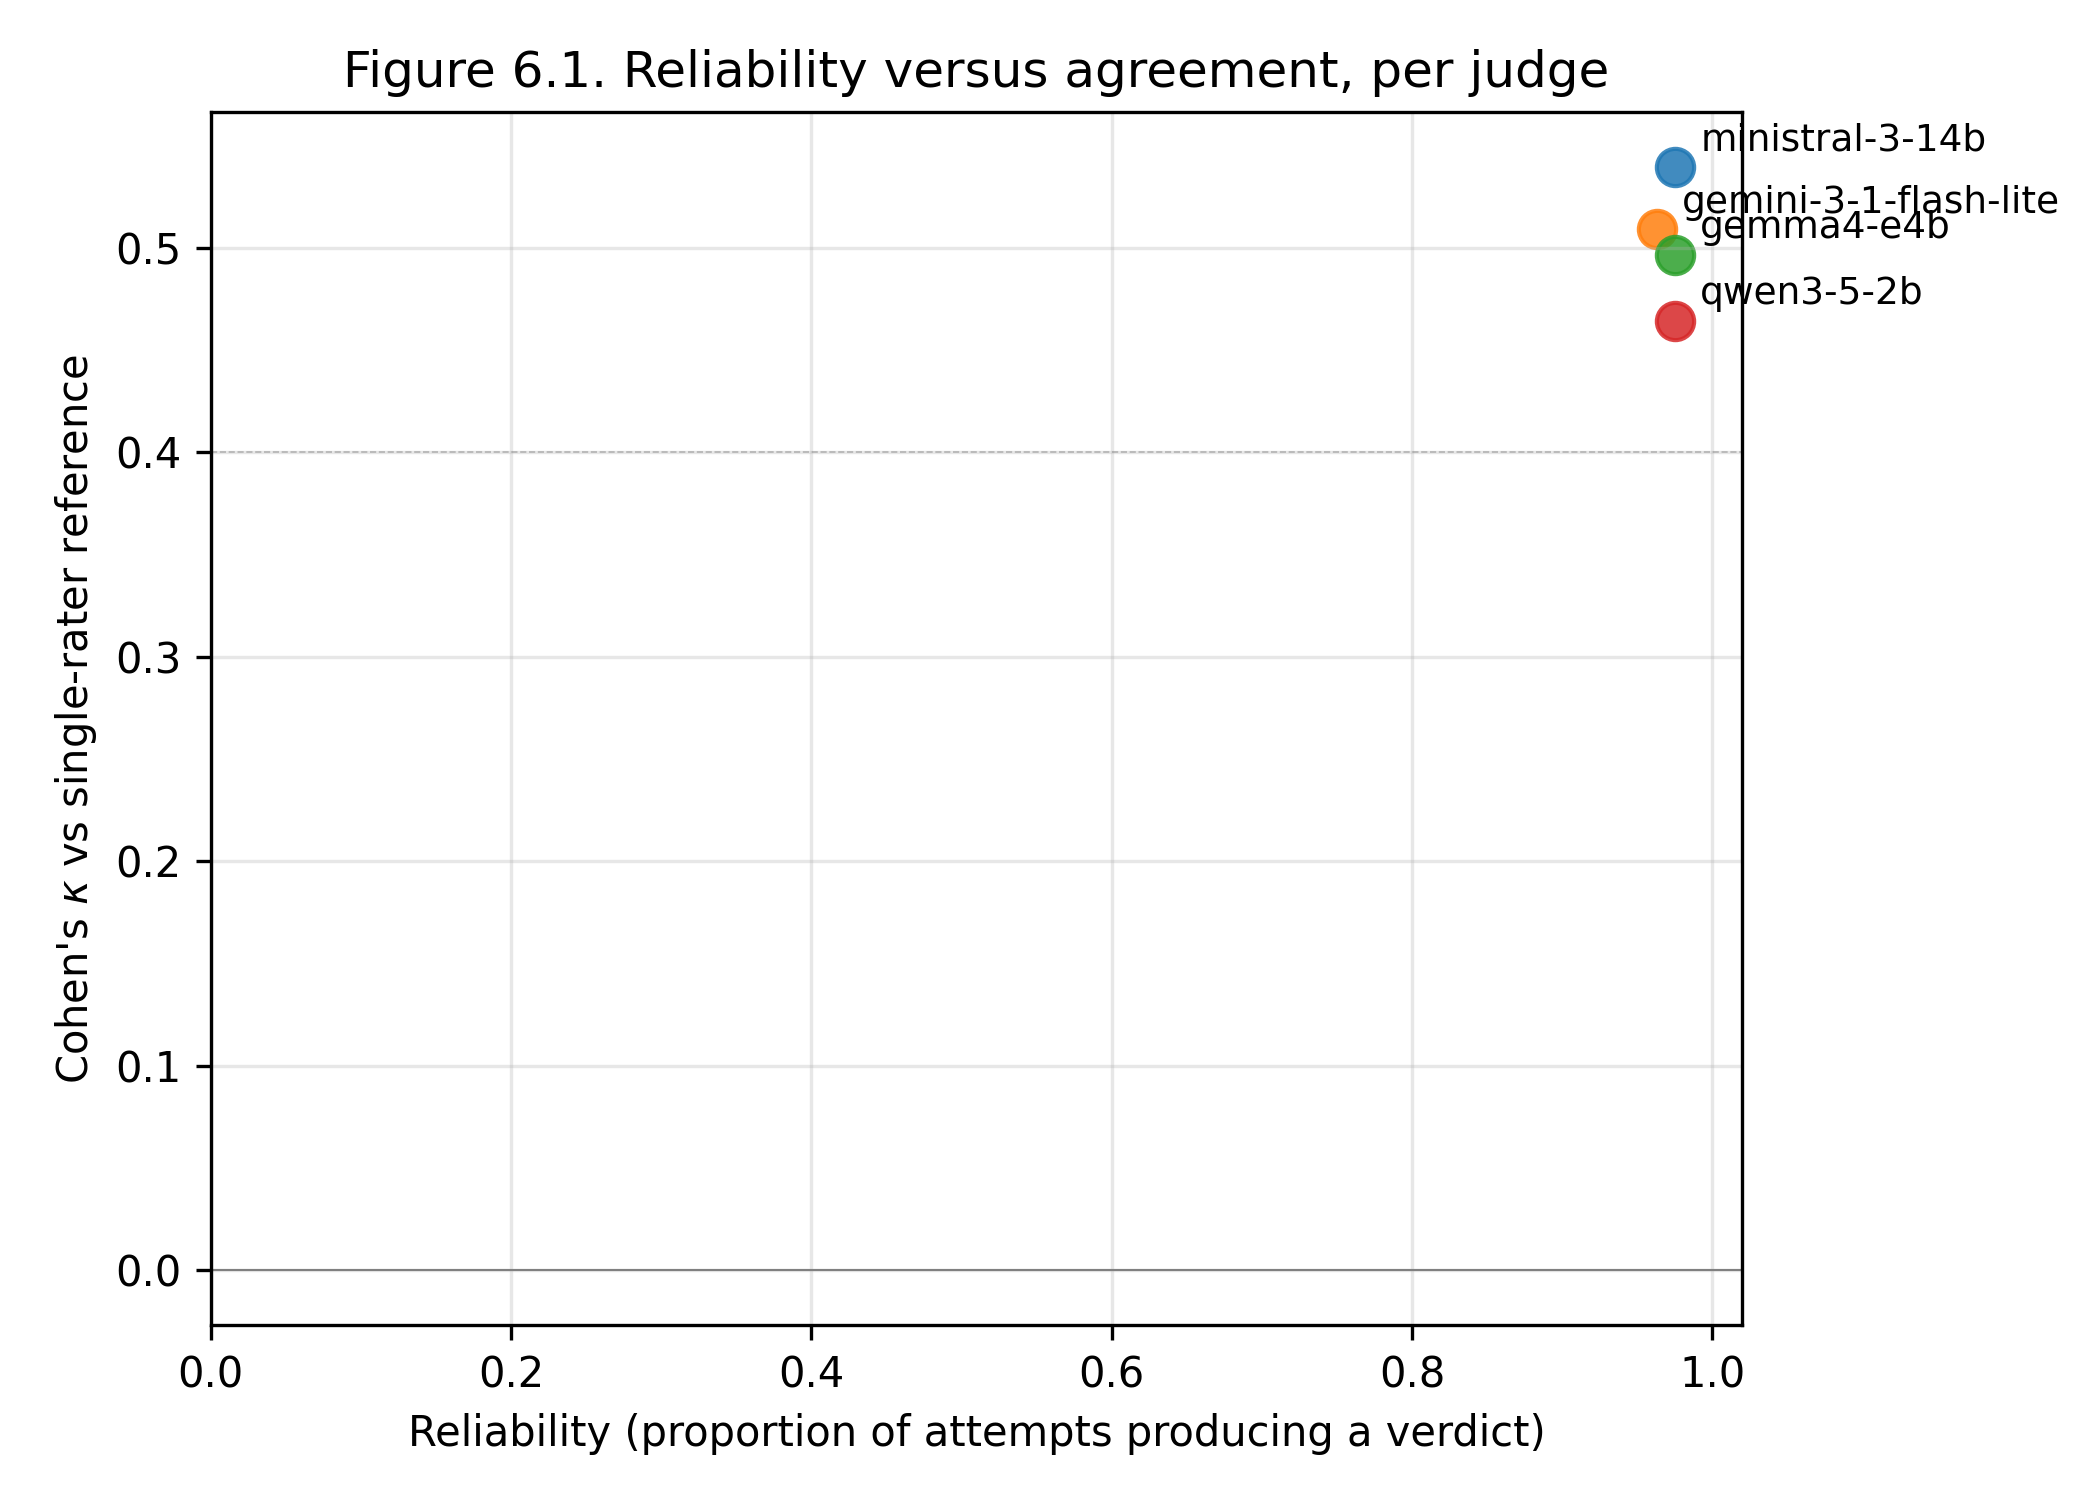
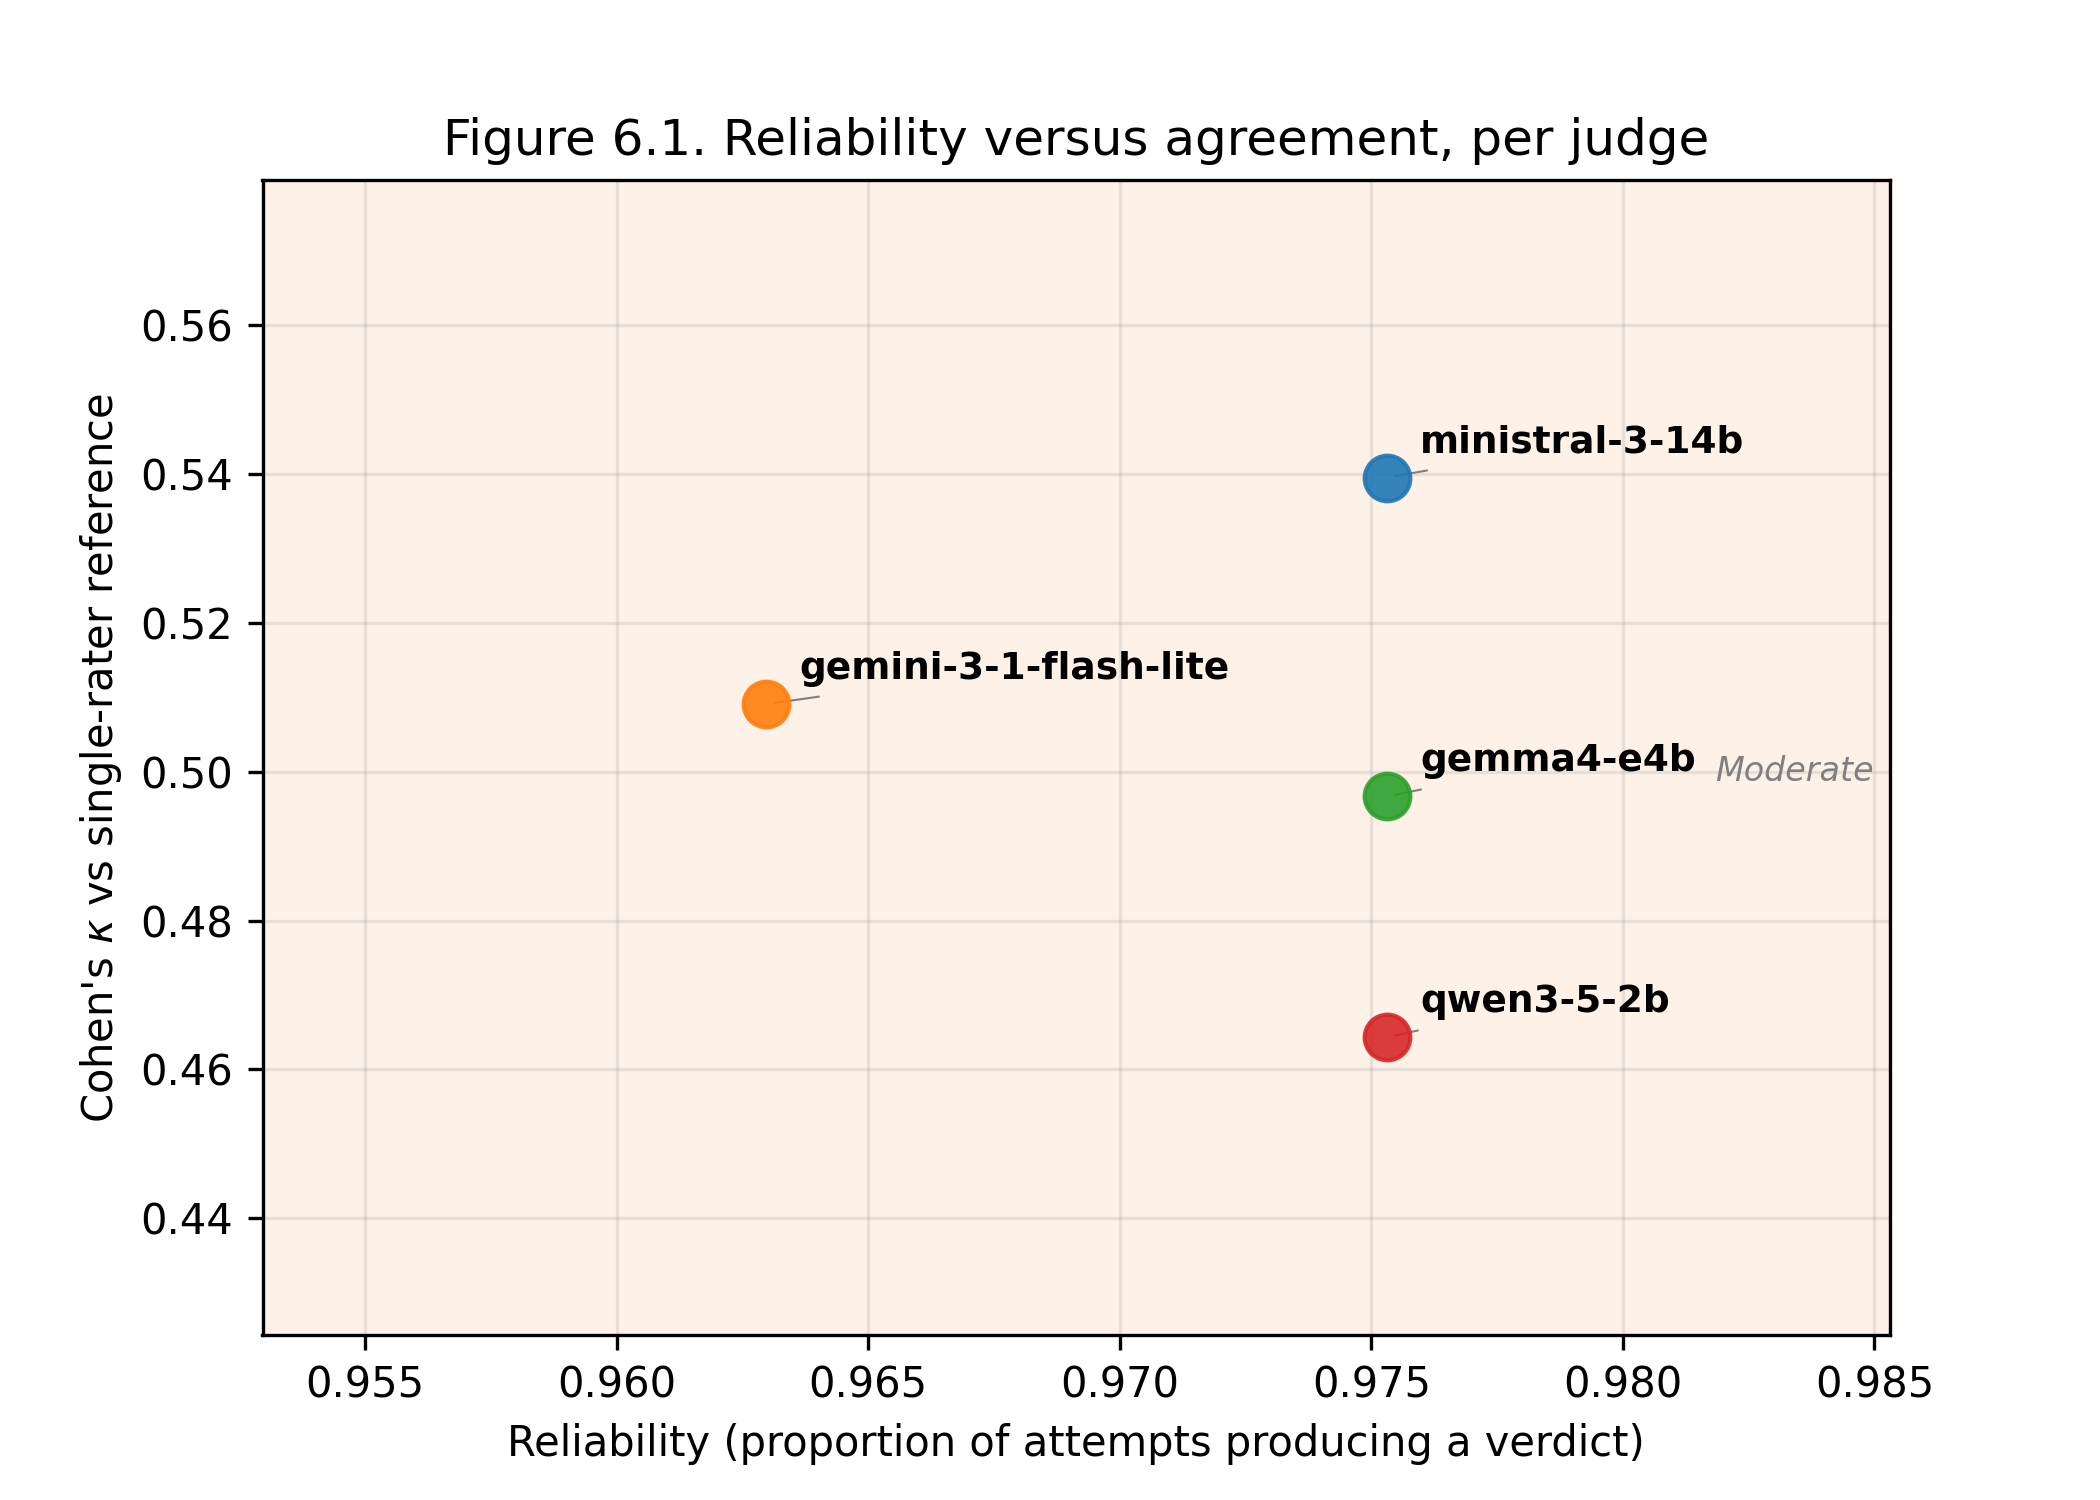
Enhance figure generation in judge matrix analysis: add band shading for reliability levels and improve annotation visibility

diff --git a/scripts/analyse_judge_matrix.py b/scripts/analyse_judge_matrix.py
@@ -347,15 +347,39 @@ def emit_figures(summary: pd.DataFrame, per_tier: dict[str, pd.DataFrame],
         return
 
     fig, ax = plt.subplots(figsize=(7, 5))
-    for _, r in summary.iterrows():
-        ax.scatter(r["reliability"], r["pooled_kappa"], s=80, alpha=0.85)
+
+    # Landis & Koch band shading (only the visible range)
+    bands = [
+        (0.20, 0.40, "#fee8c8", "Fair"),
+        (0.40, 0.60, "#fdbb84", "Moderate"),
+        (0.60, 0.80, "#e34a33", "Substantial"),
+    ]
+    for lo, hi, colour, label in bands:
+        ax.axhspan(lo, hi, color=colour, alpha=0.18)
+        # Place band label at the right edge, vertically centred in band
+        ax.text(0.99, (lo + hi) / 2, label, fontsize=8, color="grey",
+                ha="right", va="center", style="italic",
+                transform=ax.get_yaxis_transform())
+
+    colours = ["#1f77b4", "#ff7f0e", "#2ca02c", "#d62728"]
+    for idx, (_, r) in enumerate(summary.iterrows()):
+        ax.scatter(r["reliability"], r["pooled_kappa"], s=120,
+                   alpha=0.9, zorder=5, color=colours[idx % len(colours)])
         ax.annotate(r["judge"], (r["reliability"], r["pooled_kappa"]),
-                    xytext=(6, 4), textcoords="offset points", fontsize=9)
+                    xytext=(8, 6), textcoords="offset points", fontsize=9,
+                    fontweight="bold",
+                    arrowprops=dict(arrowstyle="-", color="grey", lw=0.5))
+
+    # Zoom axes to the data range so differences are visible
+    rel_vals = summary["reliability"].values
+    kap_vals = summary["pooled_kappa"].values
+    x_pad = 0.01
+    y_pad = 0.04
+    ax.set_xlim(min(rel_vals) - x_pad, max(rel_vals) + x_pad)
+    ax.set_ylim(min(kap_vals) - y_pad, max(kap_vals) + y_pad)
+
     ax.set_xlabel("Reliability (proportion of attempts producing a verdict)")
     ax.set_ylabel("Cohen's $\\kappa$ vs single-rater reference")
-    ax.set_xlim(0, 1.02)
-    ax.axhline(0.0, color="grey", linewidth=0.5)
-    ax.axhline(0.4, color="grey", linewidth=0.4, linestyle="--", alpha=0.5)
     ax.set_title("Figure 6.1. Reliability versus agreement, per judge")
     ax.grid(True, alpha=0.3)
     fig.tight_layout()
